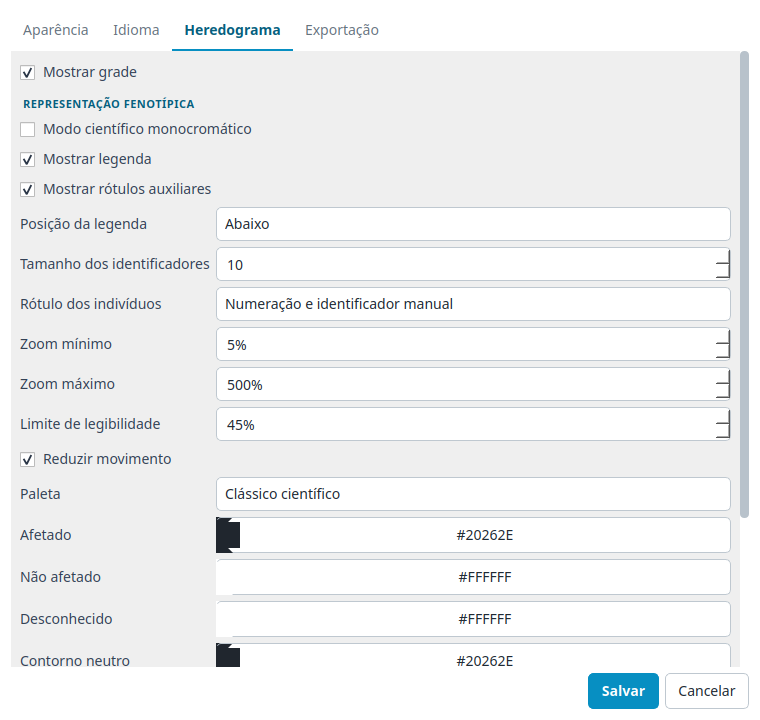
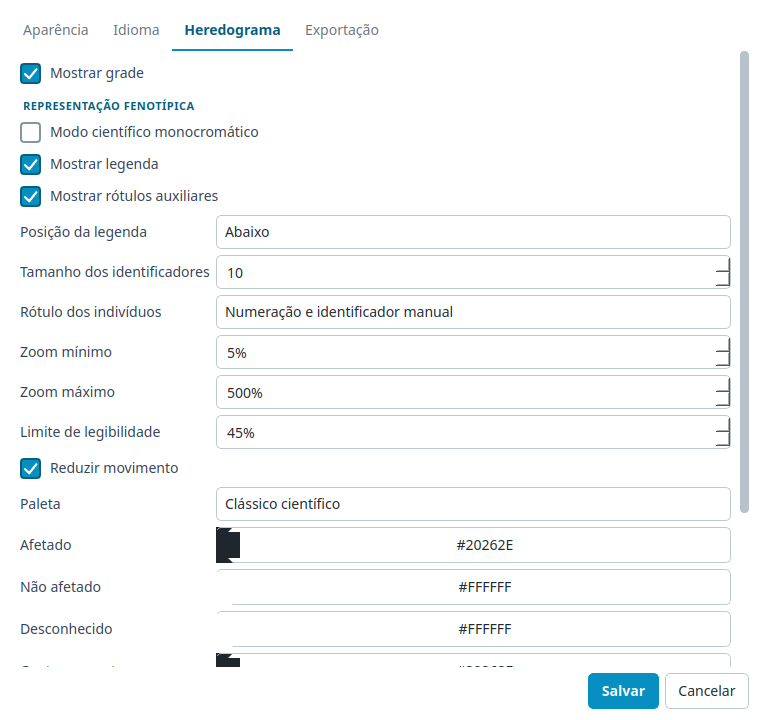
fix: improve option control contrast and checked states

diff --git a/src/rarepedigree/ui/components.py b/src/rarepedigree/ui/components.py
@@ -1,8 +1,18 @@
 """Reusable presentation components for the Scientific Workspace."""
 
-from PySide6.QtCore import QEasingCurve, QEvent, QPropertyAnimation, QRect, Qt, QTimer, Signal
-from PySide6.QtGui import QAction, QColor
+from PySide6.QtCore import (
+    QEasingCurve,
+    QEvent,
+    QPointF,
+    QPropertyAnimation,
+    QRect,
+    Qt,
+    QTimer,
+    Signal,
+)
+from PySide6.QtGui import QAction, QColor, QPainter, QPen
 from PySide6.QtWidgets import (
+    QCheckBox,
     QFrame,
     QGraphicsDropShadowEffect,
     QHBoxLayout,
@@ -10,6 +20,8 @@ from PySide6.QtWidgets import (
     QPushButton,
     QScrollArea,
     QSizePolicy,
+    QStyle,
+    QStyleOptionButton,
     QToolButton,
     QVBoxLayout,
     QWidget,
@@ -17,6 +29,40 @@ from PySide6.QtWidgets import (
 
 from rarepedigree.ui.i18n import tr
 from rarepedigree.ui.icons import icon
+
+
+class AccessibleCheckBox(QCheckBox):
+    """Checkbox with a redundant high-contrast tick in its checked state."""
+
+    def paintEvent(self, event) -> None:
+        super().paintEvent(event)
+        if not self.isChecked():
+            return
+        option = QStyleOptionButton()
+        self.initStyleOption(option)
+        rect = self.style().subElementRect(
+            QStyle.SubElement.SE_CheckBoxIndicator, option, self
+        )
+        painter = QPainter(self)
+        painter.setRenderHint(QPainter.RenderHint.Antialiasing)
+        pen = QPen(QColor("#FFFFFF"), 2.2)
+        pen.setCapStyle(Qt.PenCapStyle.RoundCap)
+        pen.setJoinStyle(Qt.PenJoinStyle.RoundJoin)
+        painter.setPen(pen)
+        painter.drawLine(QPointF(
+            rect.left() + rect.width() * 0.24,
+            rect.top() + rect.height() * 0.53,
+        ), QPointF(
+            rect.left() + rect.width() * 0.44,
+            rect.top() + rect.height() * 0.72,
+        ))
+        painter.drawLine(QPointF(
+            rect.left() + rect.width() * 0.44,
+            rect.top() + rect.height() * 0.72,
+        ), QPointF(
+            rect.left() + rect.width() * 0.78,
+            rect.top() + rect.height() * 0.30,
+        ))
 
 
 class ToolRailButton(QToolButton):

diff --git a/src/rarepedigree/ui/theme.py b/src/rarepedigree/ui/theme.py
@@ -77,8 +77,37 @@ QLineEdit:focus, QTextEdit:focus, QComboBox:focus, QSpinBox:focus { border: 2px 
 QLineEdit:disabled, QComboBox:disabled { color: #8B969F; background: #F1F3F5; }
 QComboBox::drop-down { border: 0; width: 24px; }
 QComboBox QAbstractItemView { background: #FFFFFF; color: #1F2933; border: 1px solid #BFC8D0; selection-background-color: #D9F0F7; selection-color: #075E7D; padding: 4px; }
-QCheckBox, QRadioButton { color: #334155; spacing: 8px; min-height: 24px; }
-QCheckBox::indicator, QRadioButton::indicator { width: 15px; height: 15px; }
+QCheckBox, QRadioButton { color: #334155; spacing: 9px; min-height: 26px; }
+QCheckBox::indicator, QRadioButton::indicator {
+    width: 17px;
+    height: 17px;
+    background: #FFFFFF;
+    border: 2px solid #8795A1;
+}
+QCheckBox::indicator { border-radius: 4px; }
+QRadioButton::indicator { border-radius: 10px; }
+QCheckBox::indicator:hover, QRadioButton::indicator:hover {
+    border-color: #078FC2;
+    background: #F3FAFC;
+}
+QCheckBox::indicator:checked, QRadioButton::indicator:checked {
+    background: #078FC2;
+    border-color: #075E7D;
+}
+QCheckBox::indicator:checked:hover, QRadioButton::indicator:checked:hover {
+    background: #087EAA;
+}
+QCheckBox::indicator:disabled, QRadioButton::indicator:disabled {
+    background: #E9EDF0;
+    border-color: #BFC8D0;
+}
+QCheckBox:focus, QRadioButton:focus {
+    color: #075E7D;
+}
+QDialog QTabWidget::pane, QDialog QScrollArea, QDialog QScrollArea QWidget#qt_scrollarea_viewport {
+    background: #FFFFFF;
+}
+QDialog QScrollArea > QWidget > QWidget { background: #FFFFFF; }
 QLabel { color: #334155; background: transparent; }
 QLabel[sectionHeader="true"] { color: #075E7D; font-size: 11px; font-weight: 700; padding-top: 6px; letter-spacing: 0.5px; }
 QLabel[card="true"] { background: #F7F9FA; border: 1px solid #D6DCE1; border-radius: 7px; padding: 10px; }

diff --git a/tests/unit/test_phase_4_12.py b/tests/unit/test_phase_4_12.py
@@ -16,6 +16,7 @@ from rarepedigree.rendering.exporters import ExportOptions, export_svg
 from rarepedigree.rendering.style import PedigreeRenderStyle
 from rarepedigree.ui.main_window import MainWindow
 from rarepedigree.ui.preferences import PreferencesDialog
+from rarepedigree.ui.theme import SCIENTIFIC_WORKSPACE_STYLESHEET
 
 
 def test_geometry_not_color_encodes_gender() -> None:
@@ -104,3 +105,11 @@ def test_legacy_category_preferences_do_not_change_neutral_outline() -> None:
     assert PedigreeRenderStyle.from_settings(settings).outline_color == settings.value(
         "phenotype/outline_color", "#20262E", str
     )
+
+
+def test_option_controls_have_explicit_high_contrast_states() -> None:
+    stylesheet = SCIENTIFIC_WORKSPACE_STYLESHEET
+    assert "QCheckBox::indicator:checked" in stylesheet
+    assert "background: #078FC2" in stylesheet
+    assert "QCheckBox::indicator:disabled" in stylesheet
+    assert "QDialog QScrollArea" in stylesheet

diff --git a/scripts/validate_phase_4_12.py b/scripts/validate_phase_4_12.py
@@ -92,6 +92,13 @@ def main() -> None:
     evidence["export_opt_in"] = capture_dialog(
         ExportFigureDialog(window), "05_export_annotation_option", (700, 390)
     )
+    item = window.scene.person_items[project.individuals[0].id]
+    item.setSelected(True)
+    window._open_floating_editor(item)
+    window.floating_editor.proband.setChecked(True)
+    window.floating_editor.consultand.setChecked(False)
+    evidence["checkbox_states"] = capture(window, "07_checkbox_states")
+    window.floating_editor.hide()
     language_manager.set_language("en")
     window.resize(1920, 1080)
     evidence["workspace_en"] = capture(window, "06_workspace_notes_en")

diff --git a/src/rarepedigree/ui/interaction.py b/src/rarepedigree/ui/interaction.py
@@ -7,7 +7,6 @@ from typing import Any, ClassVar
 from PySide6.QtCore import QEasingCurve, QPoint, QPropertyAnimation, Qt, Signal
 from PySide6.QtGui import QBrush, QColor, QPainterPath, QPen
 from PySide6.QtWidgets import (
-    QCheckBox,
     QComboBox,
     QFrame,
     QGraphicsItemGroup,
@@ -29,6 +28,7 @@ from PySide6.QtWidgets import (
 from rarepedigree.domain import GenderIdentity, Individual, ObservationStatus
 from rarepedigree.rendering import IndividualItem
 from rarepedigree.rendering.items import SYMBOL_SIZE
+from rarepedigree.ui.components import AccessibleCheckBox as QCheckBox
 from rarepedigree.ui.i18n import tr
 
 

diff --git a/src/rarepedigree/ui/dialogs.py b/src/rarepedigree/ui/dialogs.py
@@ -8,7 +8,6 @@ from PySide6.QtCore import QPointF, QRectF, Qt
 from PySide6.QtGui import QColor, QPainter, QPen
 from PySide6.QtWidgets import (
     QButtonGroup,
-    QCheckBox,
     QComboBox,
     QDialog,
     QDialogButtonBox,
@@ -41,6 +40,7 @@ from rarepedigree.domain import (
 )
 from rarepedigree.layout import PedigreeLayoutEngine
 from rarepedigree.rendering import PedigreeScene
+from rarepedigree.ui.components import AccessibleCheckBox as QCheckBox
 from rarepedigree.ui.components import NexusDialogHeader
 from rarepedigree.ui.i18n import language_manager, tr
 

diff --git a/src/rarepedigree/ui/preferences.py b/src/rarepedigree/ui/preferences.py
@@ -3,7 +3,6 @@
 from PySide6.QtCore import QSettings, Signal
 from PySide6.QtGui import QColor, QPainter, QPen
 from PySide6.QtWidgets import (
-    QCheckBox,
     QColorDialog,
     QComboBox,
     QDialog,
@@ -19,6 +18,7 @@ from PySide6.QtWidgets import (
     QWidget,
 )
 
+from rarepedigree.ui.components import AccessibleCheckBox as QCheckBox
 from rarepedigree.ui.i18n import language_manager, tr
 
 

diff --git a/PHASE_4_12_SCIENTIFIC_VISUAL_AND_ANNOTATIONS.md b/PHASE_4_12_SCIENTIFIC_VISUAL_AND_ANNOTATIONS.md
@@ -40,6 +40,7 @@ Checkpoint anterior às alterações: `cdd7346`.
 | Exportação limpa | seleção, alças e sombra são desativadas durante renderização | exportador compartilhado | Aceito |
 | Movimento reduzido | fade curto de entrada, desativável por preferência | configuração `ui/reduce_motion` | Aceito |
 | PT-BR/EN | novas ações, diálogos e mensagens no catálogo | captura 06 e catálogo | Aceito |
+| Controles de opção acessíveis | fundo branco/borda no estado livre, azul e `✓` redundante no estado marcado | captura 07 e teste de tema | Aceito |
 | Fase 4.11 preservada | drawer legado oculto, minimapa ausente, zoom único | validação estrutural | Aceito |
 
 ## Arquivos modificados
@@ -69,12 +70,12 @@ visíveis, o que é intencional para navegação, mas não muda suas coordenadas
 ```text
 ruff check .
 QT_QPA_PLATFORM=offscreen pytest -q
-148 passed
+149 passed
 ```
 
-A suíte anterior tinha 140 testes. Foram adicionados oito testes da Fase 4.12, cobrindo
+A suíte anterior tinha 140 testes. Foram adicionados nove testes da Fase 4.12, cobrindo
 neutralidade, monocromia, paleta, criação, atalho, movimentação com undo, persistência,
-exportação opt-in e compatibilidade de preferências antigas.
+exportação opt-in, compatibilidade de preferências antigas e contraste dos controles de opção.
 
 ## Evidências visuais reais
 
@@ -87,6 +88,7 @@ composição artificial:
 - `assets/phase_4_12/04_annotation_editor.png`
 - `assets/phase_4_12/05_export_annotation_option.png`
 - `assets/phase_4_12/06_workspace_notes_en.png`
+- `assets/phase_4_12/07_checkbox_states.png`
 
 O resultado automatizado está em `validation/phase_4_12/validation.json`. Todos os checks
 estruturais registrados são verdadeiros.
@@ -104,5 +106,5 @@ estruturais registrados são verdadeiros.
 ## Decisão final
 
 Aceita. Os requisitos centrais da Fase 4.12 estão implementados, os 140 testes históricos foram
-preservados, a suíte total passa com 148 testes e as evidências reais confirmam a separação entre
+preservados, a suíte total passa com 149 testes e as evidências reais confirmam a separação entre
 representação científica e comentários visuais.
